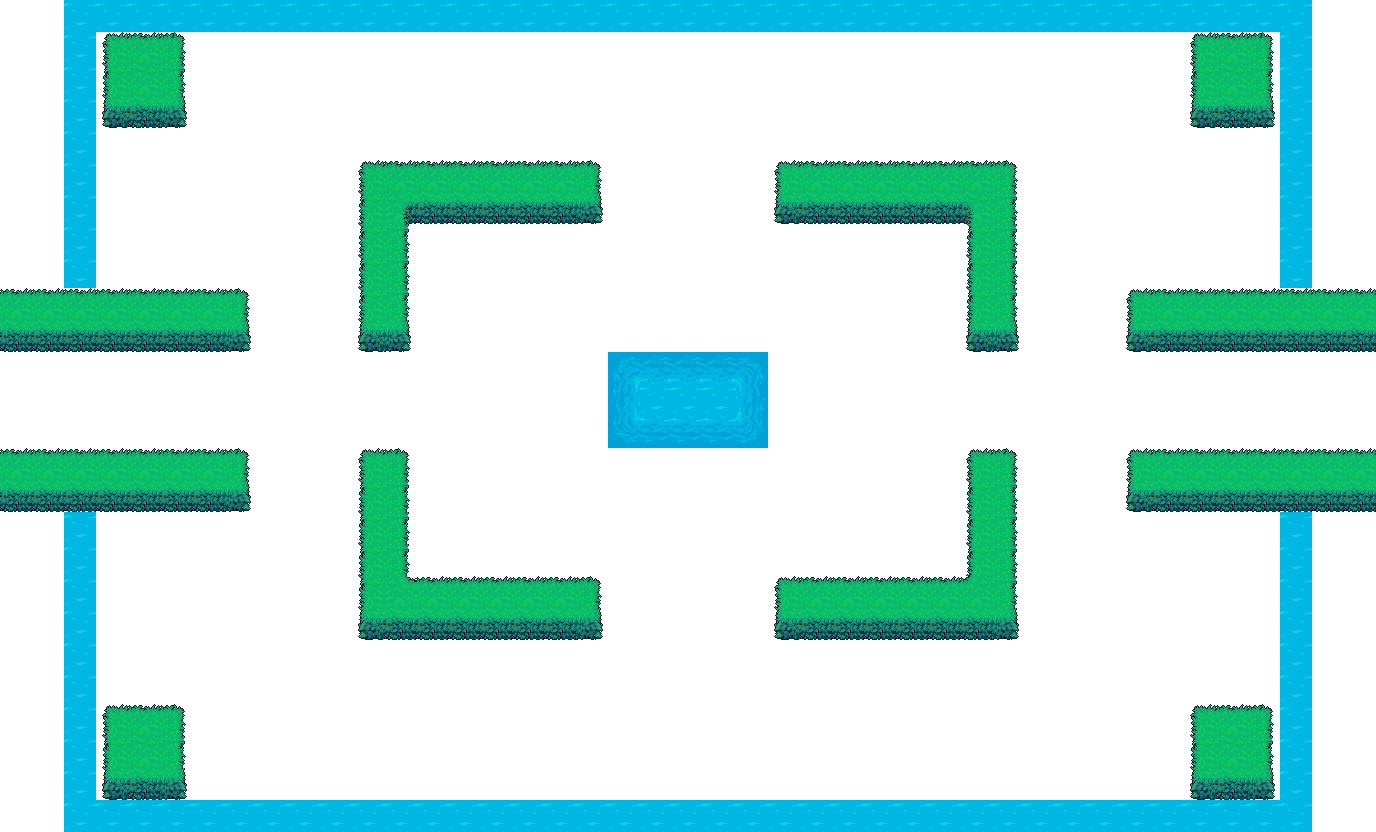
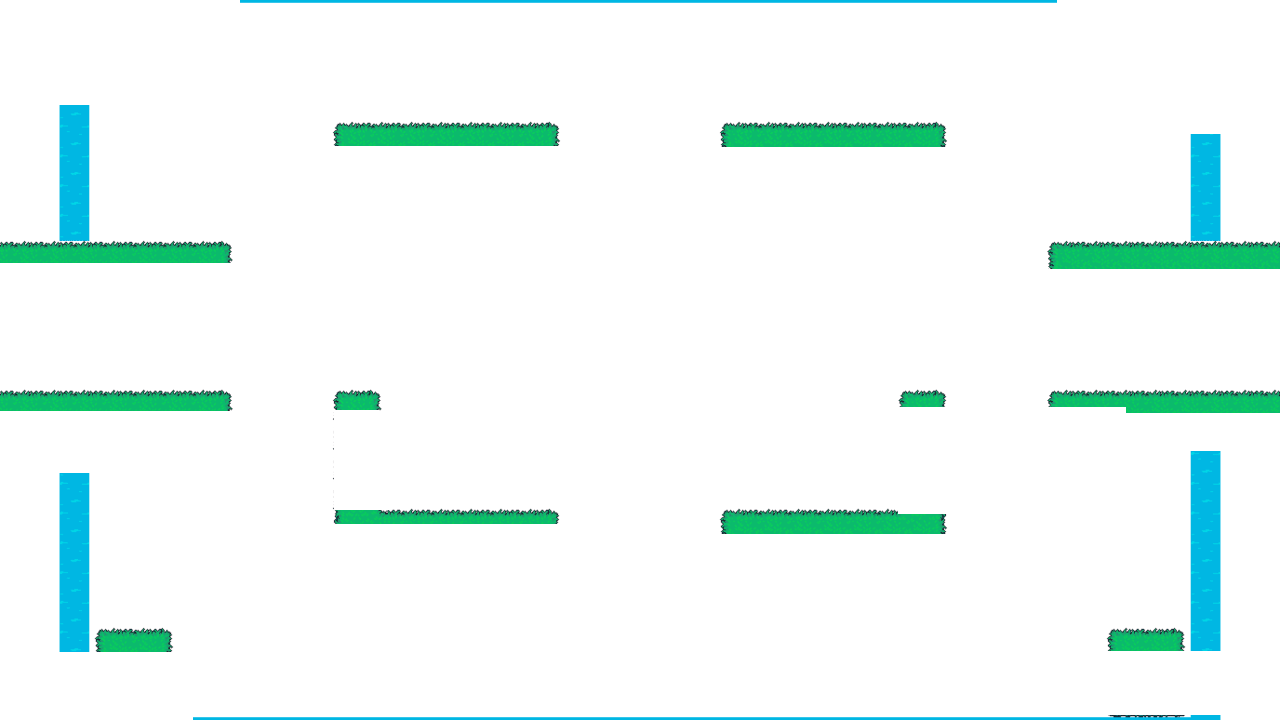
Add 3D-looking hedges

diff --git a/Scripts/main.py b/Scripts/main.py
@@ -45,6 +45,10 @@ def game_loop():
     # set the background image
     background = pygame.image.load("../Images/default_map.png")
     background = pygame.transform.scale(background, (WIDTH, HEIGHT))
+    
+    hedges = pygame.image.load("../Images/hedges.png")
+    hedges = pygame.transform.scale(hedges, (WIDTH, HEIGHT))
+
 
     # Create game logic instance
     game_logic = GameLogic(WIDTH, HEIGHT, get_font)
@@ -134,7 +138,7 @@ def game_loop():
         game_logic.player1.render(screen)
         game_logic.player2.render(screen)
             
-        
+        screen.blit(hedges, (0,0))
         # Render walls
         borders = render_border(map1_borders, screen)
 
